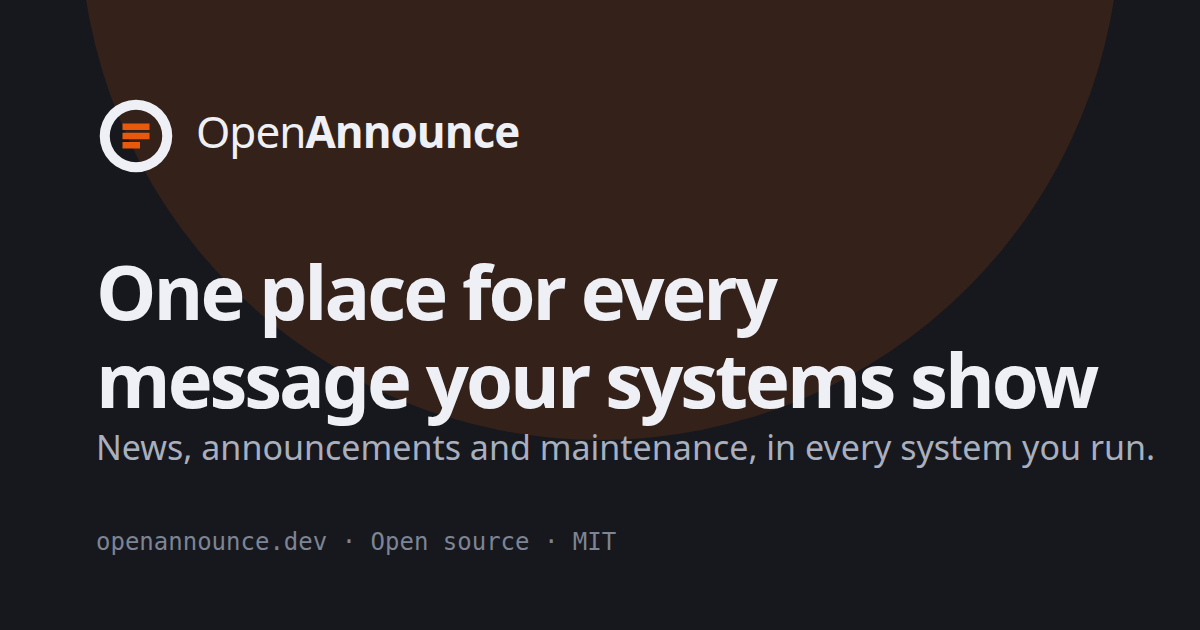
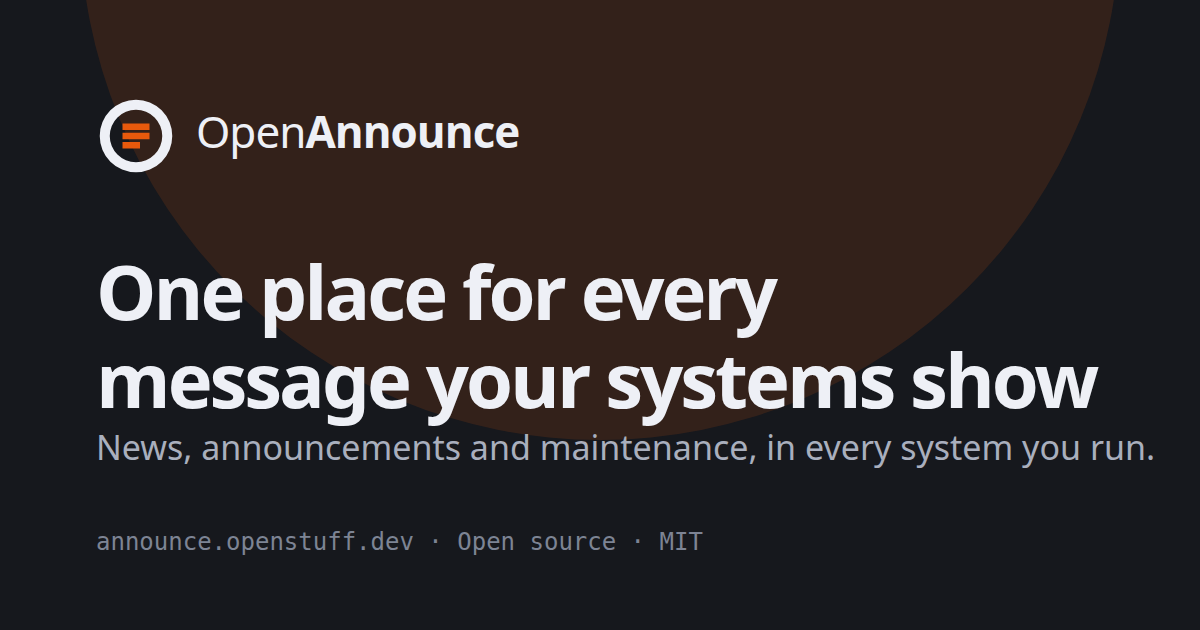
Moved the project page to announce.openstuff.dev and linked sign-in to the hosted app at announce.openstuff.app

Changed region(s): [[0.0617, 0.8444, 0.5858, 0.8746]]

diff --git a/site/index.html b/site/index.html
@@ -9,7 +9,7 @@
       content="OpenAnnounce shows news, announcements and maintenance messages in every system your company runs, to the right groups of users. Open source and self-hostable."
     />
     <meta name="color-scheme" content="dark light" />
-    <link rel="canonical" href="https://openannounce.dev/" />
+    <link rel="canonical" href="https://announce.openstuff.dev/" />
     <link rel="icon" href="favicon.svg" type="image/svg+xml" />
     <meta property="og:type" content="website" />
     <meta property="og:site_name" content="OpenAnnounce" />
@@ -18,8 +18,8 @@
       content="OpenAnnounce: One place for every message your systems show"
     />
     <meta property="og:description" content="Write a message once and show it as a banner, popup, popover or news sidebar in every system you run. Open source, MIT, self-hostable." />
-    <meta property="og:url" content="https://openannounce.dev/" />
-    <meta property="og:image" content="https://openannounce.dev/assets/og.png" />
+    <meta property="og:url" content="https://announce.openstuff.dev/" />
+    <meta property="og:image" content="https://announce.openstuff.dev/assets/og.png" />
     <meta property="og:image:width" content="1200" />
     <meta property="og:image:height" content="630" />
     <meta
@@ -175,6 +175,7 @@
           <a href="https://github.com/openstuff-dev/open-announce">GitHub</a>
         </nav>
         <div class="os-topbar-actions">
+          <a class="os-button" data-variant="ghost" data-hide-sm href="https://announce.openstuff.app/sign-in">Sign in</a>
           <a class="os-button" data-variant="primary" href="#self-host">Self-host it</a>
           <button
             class="os-button os-menu-button"
@@ -192,6 +193,8 @@
         <a href="#how">How it works</a>
         <a href="#self-host">Self-host</a>
         <a href="https://github.com/openstuff-dev/open-announce">GitHub</a>
+        <hr />
+        <a href="https://announce.openstuff.app/sign-in">Sign in</a>
       </nav>
     </header>
 
@@ -799,8 +802,10 @@
               <summary>Where is my data?</summary>
               <div class="os-faq-answer">
                 <p>
-                  In your own Postgres. Admins can export a tenant as one JSON file at any time,
-                  and import it on another server.
+                  Self-hosted, it’s in your own Postgres. On the hosted version at
+                  <a href="https://announce.openstuff.app">announce.openstuff.app</a>, it’s in ours, kept apart from other
+                  tenants. Either way, admins can export a tenant as one JSON file at any time and
+                  import it on another server.
                 </p>
               </div>
             </details>
@@ -854,6 +859,7 @@
           <a href="https://github.com/openstuff-dev/open-announce">GitHub</a>
           <a href="https://design.openstuff.dev">Design</a>
           <a href="https://github.com/openstuff-dev/open-announce/blob/HEAD/LICENSE">Licence</a>
+          <a href="https://announce.openstuff.app/sign-in">Sign in</a>
         </nav>
       </div>
     </footer>

diff --git a/site/README.md b/site/README.md
@@ -1,6 +1,6 @@
 # OpenAnnounce site
 
-The marketing page for OpenAnnounce, served at https://openannounce.dev. Plain HTML on the OpenStuff
+The marketing page for OpenAnnounce, served at https://announce.openstuff.dev. Plain HTML on the OpenStuff
 toolkit: it looks and behaves like every other OpenStuff project's page. No build step, no
 trackers, no external requests.
 
@@ -100,9 +100,9 @@ was generated with `--glyph`; make sure no other project uses the same shape. Th
 `.github/workflows/pages.yml` publishes this folder on every push that changes it. Once:
 
 1. **Settings → Pages → Build and deployment → Source: GitHub Actions.**
-2. At the DNS provider for `openstuff.dev`, add a `CNAME` record for `openannounce.dev` →
+2. At the DNS provider for `openstuff.dev`, add a `CNAME` record for `announce.openstuff.dev` →
    `openstuff-dev.github.io`.
-3. **Settings → Pages → Custom domain:** `openannounce.dev`, then tick **Enforce HTTPS**. (Deploys
+3. **Settings → Pages → Custom domain:** `announce.openstuff.dev`, then tick **Enforce HTTPS**. (Deploys
    through Actions ignore a `CNAME` file, so there isn't one.)
 
 ## Update the toolkit

diff --git a/README.md b/README.md
@@ -14,6 +14,9 @@ popup, a corner popover or a news sidebar, depending on the message.
 | Maintenance | Popover | The admin decides per message |
 | News | Sidebar, opened by a button you choose | It's a sidebar: they open and close it |
 
+The hosted version runs at https://announce.openstuff.app; the project's page is
+https://announce.openstuff.dev.
+
 ## Who does what
 
 - **Server admins** add tenants: a company or a division, kept apart from the others with
@@ -146,7 +149,7 @@ Without `TEST_DATABASE_URL` those tests are skipped.
 | `apps/server` | The Fastify API and feed, the migrations and the demo page. In production it also serves the admin app and `/sdk` |
 | `packages/announce` | `@openstuff-dev/announce`: the web components, the feed client and `signUser`, published to npm |
 | `packages/contracts` | Types the server and admin app share (not published) |
-| `site` | The marketing page for https://openannounce.dev |
+| `site` | The marketing page for https://announce.openstuff.dev |
 
 The theme of the admin app comes from one `primaryColor` in `apps/web/tokens.config.json`.
 
